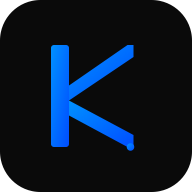
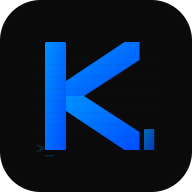
style: 레트로 터미널 K 로고 + 큐스팅 4th 브랜딩 + 푸터 크레딧
- 로고를 레트로 터미널 K 레터마크로 리디자인 (CRT 스캔라인, 커서 블록, 프롬프트 마커)
- 서비스명 '큐스팅 4th'로 통일 (Nav, Header, Footer)
- 푸터에 개발자 크레딧 추가 (@bbbang105 & @choihooo)
- PWA 아이콘 재생성 (icon-192.png, icon-512.png)

Changed region(s): [[0.1875, 0.2188, 0.8125, 0.8125], [0.4062, 0.625, 0.4688, 0.6562]]

diff --git a/packages/web/src/components/landing/landing-client.tsx b/packages/web/src/components/landing/landing-client.tsx
@@ -2,17 +2,17 @@
 
 import Link from 'next/link';
 import {
-  Rss,
-  Trophy,
-  CalendarCheck,
   Banknote,
+  CalendarCheck,
+  FileText,
+  LogIn,
   MessageSquare,
   Newspaper,
-  LogIn,
-  FileText,
+  Rss,
   TrendingUp,
+  Trophy,
 } from 'lucide-react';
-import { FadeUp, StaggerContainer, StaggerItem, CountUp, DrawLine } from './motion';
+import { CountUp, DrawLine, FadeUp, StaggerContainer, StaggerItem } from './motion';
 
 // ---------------------------------------------------------------------------
 // Types
@@ -31,7 +31,6 @@ interface LandingClientProps {
 // ---------------------------------------------------------------------------
 // Data
 // ---------------------------------------------------------------------------
-
 
 const STEPS = [
   {
@@ -52,9 +51,26 @@ const STEPS = [
 ] as const;
 
 const AVATAR_SEEDS = [
-  'alice', 'bob', 'charlie', 'dave', 'eve', 'frank', 'grace', 'heidi',
-  'ivan', 'judy', 'karl', 'lisa', 'mike', 'nina', 'oscar', 'pat',
-  'quinn', 'rachel', 'steve', 'tina',
+  'alice',
+  'bob',
+  'charlie',
+  'dave',
+  'eve',
+  'frank',
+  'grace',
+  'heidi',
+  'ivan',
+  'judy',
+  'karl',
+  'lisa',
+  'mike',
+  'nina',
+  'oscar',
+  'pat',
+  'quinn',
+  'rachel',
+  'steve',
+  'tina',
 ];
 
 // ---------------------------------------------------------------------------
@@ -67,8 +83,8 @@ function Nav() {
       <nav className="mx-auto flex h-14 max-w-6xl items-center justify-between px-6">
         <Link href="/" className="flex items-center gap-2.5">
           {/* eslint-disable-next-line @next/next/no-img-element */}
-          <img src="/icon.svg" alt="블로그 스터디" width={28} height={28} />
-          <span className="text-sm font-semibold text-white">블로그 스터디</span>
+          <img src="/icon.svg" alt="큐스팅 4th" width={28} height={28} />
+          <span className="text-sm font-semibold text-white">큐스팅 4th</span>
         </Link>
 
         <Link
@@ -185,18 +201,24 @@ function FeaturesBento() {
             <h2 className="text-3xl font-bold tracking-tight text-white">
               필요한 기능, 전부 갖췄습니다
             </h2>
-            <p className="mt-3 text-base text-zinc-400">
-              반복적인 스터디 운영 업무를 자동화하세요
-            </p>
+            <p className="mt-3 text-base text-zinc-400">반복적인 스터디 운영 업무를 자동화하세요</p>
           </div>
         </FadeUp>
 
         <StaggerContainer className="grid grid-cols-1 gap-4 sm:grid-cols-2 lg:grid-cols-3">
           {[
             { icon: Rss, title: 'RSS 자동 수집', desc: '블로그 글 발행 시 자동 감지 및 수집' },
-            { icon: Trophy, title: '랭킹 & 활동 점수', desc: '글 작성·댓글·출석 등 활동 기반 점수 시스템' },
+            {
+              icon: Trophy,
+              title: '랭킹 & 활동 점수',
+              desc: '글 작성·댓글·출석 등 활동 기반 점수 시스템',
+            },
             { icon: CalendarCheck, title: '출석 자동화', desc: '2주 1회차, 지각·결석 자동 판정' },
-            { icon: MessageSquare, title: '커뮤니티 게시판', desc: 'Tiptap 에디터, 댓글, 비밀글 지원' },
+            {
+              icon: MessageSquare,
+              title: '커뮤니티 게시판',
+              desc: 'Tiptap 에디터, 댓글, 비밀글 지원',
+            },
             { icon: Banknote, title: '벌금 관리', desc: '자동 부과, DM 알림, 납부 확인' },
             { icon: Newspaper, title: '큐레이션', desc: '관심 키워드 기반 아티클·컨퍼런스 추천' },
           ].map(({ icon: Icon, title, desc }) => (
@@ -230,7 +252,10 @@ function HowItWorks() {
             const isLast = index === STEPS.length - 1;
 
             return (
-              <StaggerItem key={step.title} className="relative flex flex-1 flex-col items-center text-center">
+              <StaggerItem
+                key={step.title}
+                className="relative flex flex-1 flex-col items-center text-center"
+              >
                 {/* Connector line between steps */}
                 {!isLast && (
                   <DrawLine className="absolute top-6 left-1/2 hidden h-px w-full bg-gradient-to-r from-blue-500/40 to-blue-500/10 md:block" />
@@ -301,9 +326,7 @@ function FinalCTA() {
 
       <div className="relative z-10 mx-auto max-w-2xl">
         <FadeUp delay={0}>
-          <h2 className="text-3xl font-bold tracking-tight gradient-text">
-            지금 바로 시작하세요.
-          </h2>
+          <h2 className="text-3xl font-bold tracking-tight gradient-text">지금 바로 시작하세요.</h2>
         </FadeUp>
 
         <FadeUp delay={0.1}>
@@ -326,7 +349,24 @@ function Footer() {
     <footer className="border-t border-white/5 px-6 py-8">
       <div className="mx-auto max-w-6xl text-center">
         <p className="text-xs text-zinc-600">
-          © {new Date().getFullYear()} 블로그 스터디 · Powered by KUSITMS
+          © {new Date().getFullYear()} 큐스팅 4th · Built by{' '}
+          <a
+            href="https://github.com/bbbang105"
+            target="_blank"
+            rel="noopener noreferrer"
+            className="text-zinc-500 hover:text-white transition-colors"
+          >
+            @bbbang105
+          </a>
+          {' & '}
+          <a
+            href="https://github.com/choihooo"
+            target="_blank"
+            rel="noopener noreferrer"
+            className="text-zinc-500 hover:text-white transition-colors"
+          >
+            @choihooo
+          </a>
         </p>
       </div>
     </footer>

diff --git a/packages/web/src/components/layout/header.tsx b/packages/web/src/components/layout/header.tsx
@@ -94,7 +94,7 @@ export function Header({ user, isAdmin = false, onLogout }: HeaderProps) {
           {/* eslint-disable-next-line @next/next/no-img-element */}
           <img src="/icon.svg" alt="블로그 스터디" width={24} height={24} className="rounded-md" />
           <span className="text-xs font-medium text-muted-foreground tracking-wide uppercase hidden sm:inline">
-            블로그 스터디
+            큐스팅 4th
           </span>
         </Link>
 
